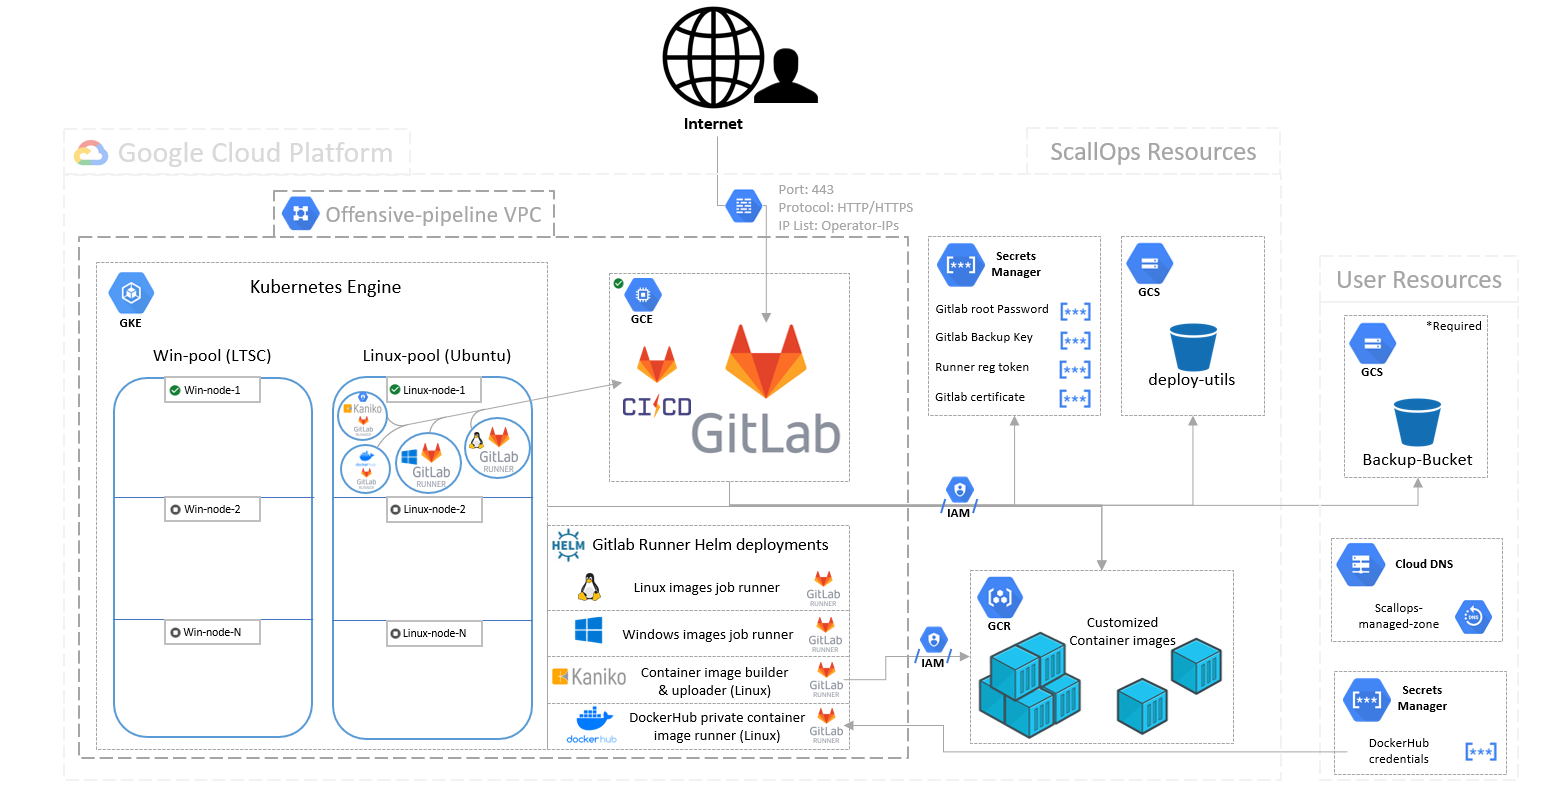
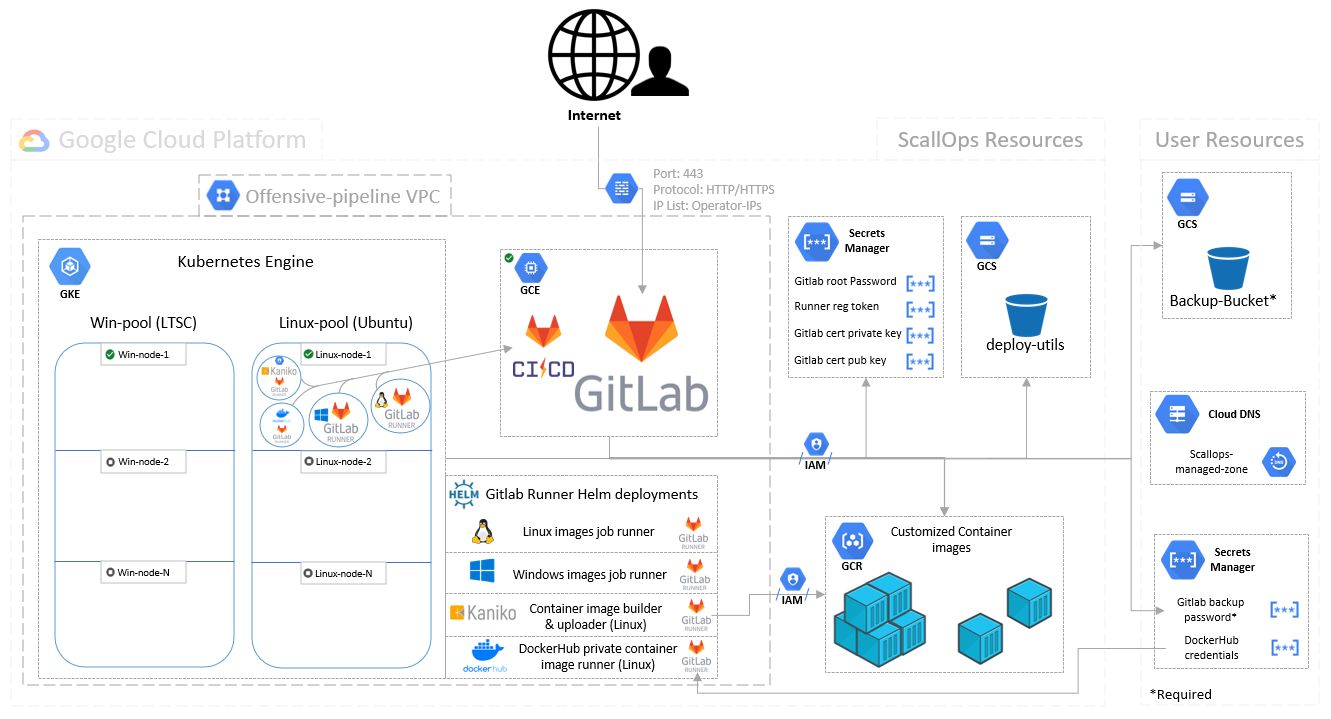
Updated readme and tfvars template

diff --git a/README.MD b/README.MD
@@ -1,5 +1,5 @@
 [![License: MIT](https://img.shields.io/badge/License-MIT-yellow.svg?style=plastic)](https://opensource.org/licenses/MIT)
-![Terraform](https://img.shields.io/badge/Terraform-v1.2.6-8040c9.svg?style=plastic)
+![Terraform](https://img.shields.io/badge/Terraform-v1.2.8-8040c9.svg?style=plastic)
 ![Gitlab](https://img.shields.io/badge/Gitlab-v15.2.1-fd7e14.svg?style=plastic)
 ![GKE](https://img.shields.io/badge/GKE-1.24.2-1A73E8.svg?style=plastic)
 ![ScallOps](https://img.shields.io/badge/ScallOps-v0.4-000000.svg?style=plastic)
@@ -16,7 +16,6 @@ Security teams and individuals can develop, collaborate and utilize the framewor
 You can choose to deploy the framework's infrastructure using the Terraform scripts within this repository or use your own infrastructure.
 Refer to the [ScallOps-Recipes](https://github.com/SygniaLabs/ScallOps-Recipes) repository to learn more about the infrasctrucure requirements.
 
-Developed by [@Gil Biton](https://twitter.com/B1t0n_)
 
 <p align="center">
   <img src="./img/scallops.png" alt="ScallOps logo" width="" height="300">
@@ -42,9 +41,10 @@ Google Cloud Storage is in use to store maintenance scripts and encrypted Gitlab
 
 Automated deployment Pre-requisites:
 * Google Cloud subscription with **OWNER** permissions on a project (It is reccomended to use a **clean** GCP project).
-* Google Storage Bucket to store the backups. This Bucket is not required to share the same GCP project with the rest of the deployment.
 * Access to GCP cloud shell or locally using Terraform with GCP credentials.
-* Web Browser.
+* Google Storage Bucket to store the backups. This Bucket is not required to share the same GCP project with the rest of the deployment.
+* A secret storing a password which will be used to encrypt/decrypt backup archives.
+
 
 
 Clone the repository
@@ -56,57 +56,73 @@ nano config.tfvars
 
 Carefully read the instructions related to each variable and act accordingly.
 
-**project_id**, **infra_name** and **backups_bucket_name** variables are required.
+**project_id**, **infra_name**, **gitlab_backup_key_secret_id** and **backups_bucket_name** variables are required.
 
-The code below is an example for *config.tfvars* file using all available optional variables:
+The code below is an example for *config.tfvars* file using all available optional features:
 ```bash
-#### Required ####
-
-project_id = "my-offensive-cicd"              # GCP Project ID
-infra_name = "scallops"                       # The name you wish to have as a prefix for the deployment's resources. Must comply with [a-z]([-a-z0-9]*[a-z0-9])
-backups_bucket_name = "mycicd-gitlab-backups" # The name of an existing bucket you wish to receive backups to. Terraform will create the required permission to upload the backup archive.
+##### Scallops IAC variables #####
+#### Note that some variables are required (#Required), and some variables modifications will take effect also after deployment (#PostDeploymentModifiable).
 
 
-#### Optionals ####
-operator_ips = ["1.2.3.4", "22.23.11.12"]     # Office IP / home IPs
+## GCP Project ID
+project_id = "my-scallops" #Required
 
+## The name you wish to have as a prefix for the deployment's resources. Must comply with ^[a-z]([a-z0-9]*[a-z0-9])$
+infra_name = "scallops" #Required
 
-## External DNS ##
-# Uncomment below 3 lines if wishing to supply external DNS name for accessing Gitalb instance
+## The name of an existing bucket you wish to receive backups to. Terraform will create the required permission to upload the backup archive.
+backups_bucket_name = "my-backups" #Required #PostDeploymentModifiable
 
-external_hostname = "scallops.mydomain.com"   # Requires re-deploy of the Gitlab instance to be set as external url from Gitlab's perspective. Will also update Certificate ALT names
-dns_project_id = "dns-mgt-company"            # The project ID where the managed DNS zone is located
-dns_managed_zone_name = "mydomain-com"        # The configured managed DNS zone name
-
-
-## Docker hub credentials ##
-# An existing secret name storing Dockerhub credentials to fetch private container images (format is username:password or username:access-token).
-# Creating Dockerhub access token https://docs.docker.com/docker-hub/access-tokens/
-# Creating a secret through GCP secret manager https://cloud.google.com/secret-manager/docs/creating-and-accessing-secrets#create
-
-dockerhub-creds-secret = "dockerhub-private-credentials"     # Name of the secret in secret-manager
+## An existing secret ID in the same GCP project (project_id) storing a password for the backup process (Allowed symbols for secret value: -_ )
+## Creating a secret through GCP secret manager https://cloud.google.com/secret-manager/docs/creating-and-accessing-secrets#create
+gitlab_backup_key_secret_id = "scallops-backup-secret" #Required #PostDeploymentModifiable
 
 
 
-## Default deployment values ##
-# Uncommenct and modify only if needed (us-central-1 considered to be the cheapest).
+## Gitlab version to install (e.g. 15.2.1-ee)
+gitlab_version = "15.2.1-ee" #Optional
 
-# gitlab_instance_protocol = "https"  # The Gitlab instance Web server protocol, http or https.
-# zone = "a"                          # Zone for the k8s cluster, Gitlab instance and network.
-# region = us-central-1               # Region for the k8s cluster, Gitlab instance and network.
+## IP addresses that can interact with the Gitlab instance via HTTP/S (Office IP / Home IPs)
+operator_ips = ["1.2.3.4"] #Optional #PostDeploymentModifiable
+
+## Enable debugging resources such as IAP Firewall rules, and export of config files
+#debug_flag = true #Optional #PostDeploymentModifiable
+
+## The Gitlab instance Web server protocol, http or https.
+# gitlab_instance_protocol = "https" #Optional
+
+## Region for the k8s cluster, Gitlab instance and network.
+# region = us-central-1 #Optional
+
+## Zone for the k8s cluster, Gitlab instance and network.
+# zone = "a" #Optional
 
 
 
+## External DNS ## #Optional #PostDeploymentModifiable #GitlabRestartRequired
+## Uncomment the 3 lines below if wishing to supply external DNS name for accessing Gitalb instance
 
-## Migration variables ##
-# If you plan on migrating from a different gitlab instance, uncomment all migration variables below, and follow requirements.
-# Requires Gsutil on the terraform deployer system as backup will be downloaded locally
+dns_project_id = "orgdns"                           # The project ID where the managed DNS zone is located
+dns_managed_zone_name = "org-com"        # The configured managed DNS zone name
+external_hostname = "scallops.org.com"   # The hostname you wish to set of the instance (Must be subdomain of the managed zone)
 
-migrate_gitlab = true                            ## If performing migration from another Gitlab instance and got a backup file from previous instance. true/false.
-migrate_gitlab_version = "14.5.2-ee"             ## The Gitlab full version that you are migrating from e.g. '14.3.3-ee'
-migrate_gitlab_backup_bucket = "mycicd-gitlab-backups"              ## The Google Storage Bucket to your Gitlab backup e.g. 'mybucket1-abcd'
-migrate_gitlab_backup_path = "backups/gitlab-16451235-backup.zip"   ## The path to the archived backup zip e.g 'backups/gitlab-xxx-backup.zip'
-migrate_gitlab_backup_password = "SecretBackupPassword"             ## The password value decrypting the archived backup zip
+
+
+## Docker hub credentials (https://docs.docker.com/docker-hub/access-tokens/) #Optional #PostDeploymentModifiable
+## An existing secret name in secret-manager storing Dockerhub credentials to fetch private container images (format is username:password or username:access-token).
+dockerhub-creds-secret = "dockerhub-credentials"
+
+
+
+## Migration variables #Optional
+## If you plan on migrating from a different gitlab instance, uncomment all migration variables below, and follow requirements.
+## 1. 'gitlab_backup_key_secret_id' secret must store the password value decrypting the archived backup zip.
+## 2. 'gitlab_version' must be equal to the version you are migrating from.
+## 3. Operation requires Gsutil on the terraform deployer system as backup will be downloaded locally
+
+migrate_gitlab = true                   ## If performing migration from another Gitlab instance and got a backup file from previous instance. true/false.
+migrate_gitlab_backup_bucket = "my-backups"       ## The Google Storage Bucket to your Gitlab backup e.g. 'mybucket1-abcd'
+migrate_gitlab_backup_path = "gitlab-backups/scallops-gitlab-backup-16600000.zip"         ## The path to the archived backup zip e.g 'backups/gitlab-xxx-backup.zip'
 
 ## ### ### ### ####
 ```
@@ -129,34 +145,49 @@ Once deployed, you should receive the Gitlab instance IP address and the secret 
 
 ```console
 ....
-kubernetes_secret.k8s_gitlab_cert_secret: Creating...
+....
+module.gke.google_container_node_pool.pools["linux-pool"]: Still creating... [7m31s elapsed]
+module.gke.google_container_node_pool.pools["linux-pool"]: Creation complete after 7m32s [id=projects/my-scallops/locations/us-central1-a/clusters/scallops-offensive-pipeline/nodePools/linux-pool]
+module.gke_auth.data.google_container_cluster.gke_cluster: Reading...
+google_container_node_pool.windows-pool: Creating...
+module.gke_auth.data.google_container_cluster.gke_cluster: Read complete after 0s [id=projects/my-scallops/locations/us-central1-a/clusters/scallops-offensive-pipeline]
 kubernetes_namespace.sensitive-namespace: Creating...
-kubernetes_pod_disruption_budget.konnectivity-agent: Creating...
 kubernetes_pod_disruption_budget.kube-dns: Creating...
-kubernetes_secret.k8s_gitlab_cert_secret: Creation complete after 1s
-kubernetes_pod_disruption_budget.kube-dns: Creation complete after 1s [id=kube-system/k8s-pdb-kube-dns]
-kubernetes_pod_disruption_budget.konnectivity-agent: Creation complete after 1s [id=kube-system/k8s-pdb-konnectivity-agent]
-kubernetes_namespace.sensitive-namespace: Creation complete after 1s [id=sensitive]
-kubernetes_secret.k8s_gitlab_cert_secret-sensitive: Creating...
-kubernetes_secret.google-application-credentials: Creating...
+kubernetes_pod_disruption_budget.konnectivity-agent: Creating...
+kubernetes_secret.k8s_gitlab_cert_secret: Creating...
 helm_release.gitlab-runner-linux: Creating...
-kubernetes_secret.google-application-credentials: Creation complete after 1s [id=sensitive/kaniko-secret]
-kubernetes_secret.k8s_gitlab_cert_secret-sensitive: Creation complete after 1s
+kubernetes_pod_disruption_budget.konnectivity-agent: Creation complete after 1s [id=kube-system/k8s-pdb-konnectivity-agent]
+kubernetes_secret.k8s_gitlab_cert_secret: Creation complete after 1s [id=default/scallops-gitlab.us-central1-a.c.my-scallops.internal-cert]
+kubernetes_pod_disruption_budget.kube-dns: Creation complete after 1s [id=kube-system/k8s-pdb-kube-dns]
+kubernetes_namespace.sensitive-namespace: Creation complete after 1s [id=sensitive]
+kubernetes_secret.google-application-credentials: Creating...
+kubernetes_secret.dockerhub-creds-config[0]: Creating...
+kubernetes_secret.k8s_gitlab_cert_secret-sensitive: Creating...
 helm_release.gitlab-runner-win: Creating...
+kubernetes_secret.dockerhub-creds-config[0]: Creation complete after 0s [id=sensitive/dockerhub-creds-jsonconfig]
+kubernetes_secret.google-application-credentials: Creation complete after 0s [id=sensitive/kaniko-secret]
+kubernetes_secret.k8s_gitlab_cert_secret-sensitive: Creation complete after 0s [id=sensitive/scallops-gitlab.us-central1-a.c.my-scallops.internal-cert]
 helm_release.gitlab-runner-kaniko: Creating...
+helm_release.gitlab-runner-dockerhub[0]: Creating...
+google_container_node_pool.windows-pool: Still creating... [10s elapsed]
 helm_release.gitlab-runner-linux: Still creating... [10s elapsed]
-helm_release.gitlab-runner-linux: Creation complete after 11s [id=linux]
-helm_release.gitlab-runner-kaniko: Creation complete after 8s [id=kaniko]
 helm_release.gitlab-runner-win: Still creating... [10s elapsed]
-helm_release.gitlab-runner-win: Creation complete after 10s [id=windows]
+helm_release.gitlab-runner-kaniko: Still creating... [10s elapsed]
+helm_release.gitlab-runner-linux: Creation complete after 13s [id=linux]
+helm_release.gitlab-runner-win: Creation complete after 13s [id=windows]
+helm_release.gitlab-runner-dockerhub[0]: Still creating... [10s elapsed]
+helm_release.gitlab-runner-dockerhub[0]: Creation complete after 11s [id=dockerhub-privates]
+helm_release.gitlab-runner-kaniko: Creation complete after 12s [id=kaniko]
+google_container_node_pool.windows-pool: Still creating... [20s elapsed]
+google_container_node_pool.windows-pool: Still creating... [10m50s elapsed]
+google_container_node_pool.windows-pool: Creation complete after 10m55s [id=projects/my-scallops/locations/us-central1-a/clusters/scallops-offensive-pipeline/nodePools/windows-pool]
 
-
-Apply complete! Resources: 63 added, 0 changed, 0 destroyed.
+Apply complete! Resources: 65 added, 0 changed, 0 destroyed.
 
 Outputs:
 
-gitlab_ext_ip = "3.4.5.6"
-gitlab_root_password_secret = "<infra-name>-gitlab-root-password"
+gitlab_ext_ip = "X.X.X.X"
+gitlab_root_password_secret = "scallops-gitlab-root-password"
 ```
 
 [ScallOps-Recipes](https://github.com/SygniaLabs/ScallOps-Recipes) repository should be pre-imported into the Gitlab insatnce together with few instance level CI/CD variables configured. All you have left to do is executing the recipes :)
@@ -210,8 +241,8 @@ Per Job:
 ## Backup procedure
 
 The deployment requires to supply a GCS bucket name to store the [Gitlab backup](https://docs.gitlab.com/ee/raketasks/backup_restore.html#back-up-gitlab).
-Backup occurs every Saturday during 10AM UTC, and is done by the Gitlab compute instance using the *[gitlab_backup.sh](scripts/bash/gitlab_backup.sh)* bash script (Stored on GCS).
-The backup archive is encrypted with a password generated by Terrafrom and stored within the secret manager.
+Backup occurs every Saturday during 10AM UTC, and is done by the Gitlab compute instance using the *[gitlab_backup_exec.sh](scripts/bash/gitlab_backup_exec.sh)* bash script, which is stored on GCS and setup into crontab during deployment.
+The backup archive is encrypted with a password stored in GCP secret-manager which is supplied (gitlab_backup_key_secret_id) by the user during Terraform deployment.
 
 The encrypted archive contains the following components:
 * Timestamp_yyyy_mm_dd_14.5.2-ee_gitlab_backup.tar (A file containing the Gitlab DB)
@@ -221,6 +252,7 @@ The encrypted archive contains the following components:
 * ssl/hostname.cer (SSL public certificate file belonging to the existing hostname)
 
 The backup process log is also uploaded to the supplied bucket on every backup.
+Another [GCP log](https://cloud.google.com/logging/docs/view/logs-explorer-interface) named "gitlab-backup-exec" is created during this process.
 
 *Note that this backup structure works with the deployment migration capability.
 
